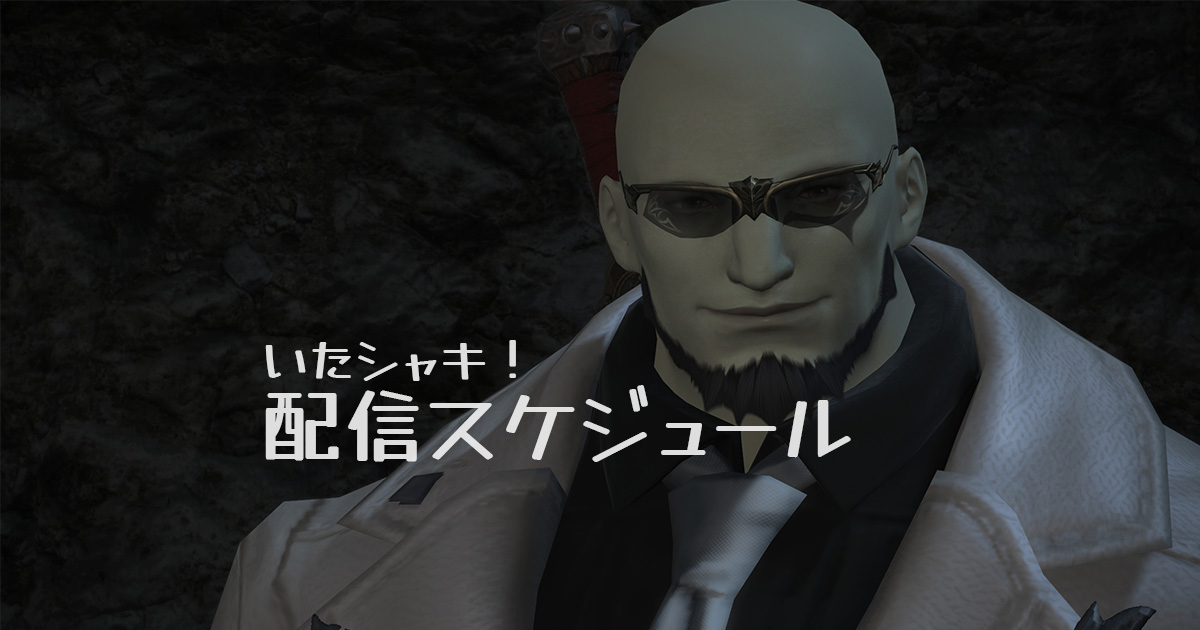
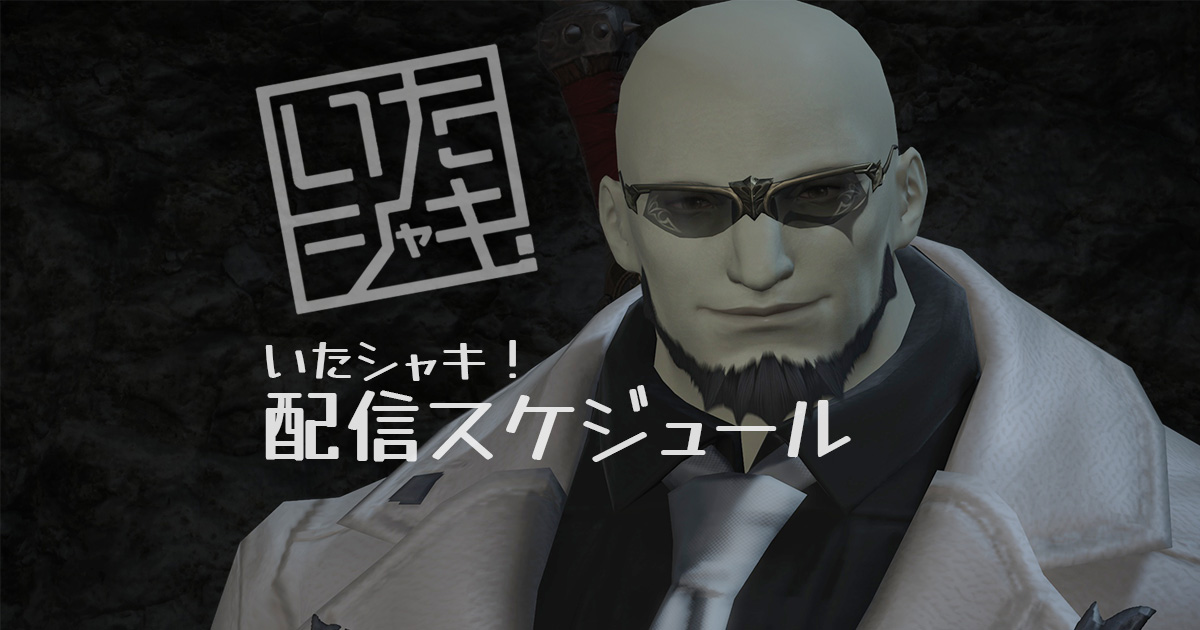
Replace social preview image

diff --git a/public/index.html b/public/index.html
@@ -10,8 +10,8 @@
     <meta property="og:title" content="いたシャキ！配信スケジュール">
     <meta property="og:description" content="いたシャキ！の最新の配信予定をお知らせするWebサイトです。">
     <meta property="og:url" content="https://itashaki-schedule.pages.dev/">
-    <meta property="og:image" content="https://itashaki-schedule.pages.dev/ogp.jpg?v=1">
-    <meta property="og:image:secure_url" content="https://itashaki-schedule.pages.dev/ogp.jpg?v=1">
+    <meta property="og:image" content="https://itashaki-schedule.pages.dev/ogp.jpg?v=2">
+    <meta property="og:image:secure_url" content="https://itashaki-schedule.pages.dev/ogp.jpg?v=2">
     <meta property="og:image:type" content="image/jpeg">
     <meta property="og:image:width" content="1200">
     <meta property="og:image:height" content="630">
@@ -20,7 +20,7 @@
     <meta name="twitter:card" content="summary_large_image">
     <meta name="twitter:title" content="いたシャキ！配信スケジュール">
     <meta name="twitter:description" content="いたシャキ！の最新の配信予定をお知らせするWebサイトです。">
-    <meta name="twitter:image" content="https://itashaki-schedule.pages.dev/ogp.jpg?v=1">
+    <meta name="twitter:image" content="https://itashaki-schedule.pages.dev/ogp.jpg?v=2">
     <meta name="twitter:image:alt" content="いたシャキ！配信スケジュール">
     <link rel="canonical" href="https://itashaki-schedule.pages.dev/">
     <title>いたシャキ！配信スケジュール</title>
